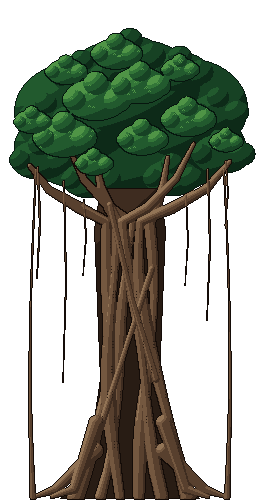
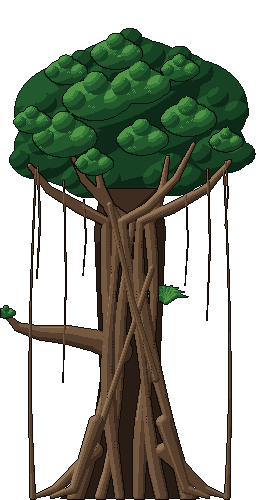
Give the balete a branch for the kapre to sit on
A thick limb out of the trunk's west side, PERCH (170) px up, drawn behind
the root lattice so it grows out of it. The fern moves to the trunk's east
side and a clump of leaf sits at the branch's tip, clear of where the kapre
will be.

Changed region(s): [[0.0, 0.6, 0.4, 0.72], [0.5846, 0.57, 0.7385, 0.63]]

diff --git a/tools/dilim_small.py b/tools/dilim_small.py
@@ -218,6 +218,8 @@ def manananggal_lower(smoke: float = 0.0) -> Sculpt:
 BARK = hexes("#140c08", "#281c14", "#3e2c20", "#58402e", "#745840", "#927456")
 WOOD = hexes("#3a2a1a", "#6a5032", "#94764c", "#b89a68", "#d4b886")
 LEAVES = hexes("#06160e", "#0d2a18", "#174224", "#225a2e", "#337638", "#4f9446")
+# How far up the trunk the kapre's branch comes out (its line at the seat), above the tree's foot.
+PERCH = 170
 
 
 def _leaf_marks(s: Sculpt, count: int, seed: int) -> None:
@@ -275,6 +277,20 @@ def balete(felled: bool = False) -> Sculpt:
         (cx + 42, ground - 40), (cx + 70, ground), (cx - 70, ground), (cx - 42, ground - 40),
         (cx - 30, ground - 120), (cx - 36, fork + 30),
     ], bulge=0.15)
+    # The kapre's branch: one thick limb out of the trunk's west side, PERCH px up, the way it
+    # faces -- where it sits, its back to the trunk -- thinning out and turning up at the end.
+    perch = ground - PERCH
+    limb = [(cx - 10, perch + 22), (cx - 34, perch + 12), (cx - 62, perch + 6), (cx - 90, perch + 4),
+            (cx - 112, perch - 2), (cx - 122, perch - 12)]
+    s.tube("bark", limb, [13.0, 11.5, 10.0, 7.6, 5.0, 2.8])
+    # A clump of leaf at its tip, clear of where the kapre's hand hangs, and a bird's-nest fern on
+    # the trunk's other side.
+    _mass(s, "leaves", cx - 124, perch - 16, 9)
+    for k in range(9):
+        a = math.radians(-160 + k * 17)
+        root = (cx + 36, ground - 196)
+        s.tube("leaves", [root, (root[0] + math.cos(a) * 12, root[1] + math.sin(a) * 12 - 3),
+                          (root[0] + math.cos(a) * 24, root[1] + math.sin(a) * 20 + 2)], [2.2, 2.6, 0.8])
     # The roots grown round it, twisting, each one tube from its buttress at the foot up through
     # the fork and out along a branch into the crown.
     roots = [(-54, -18, 0.0, 7.0, (cx - 100, 166)), (-32, 2, 1.7, 5.8, (cx - 62, 146)),
